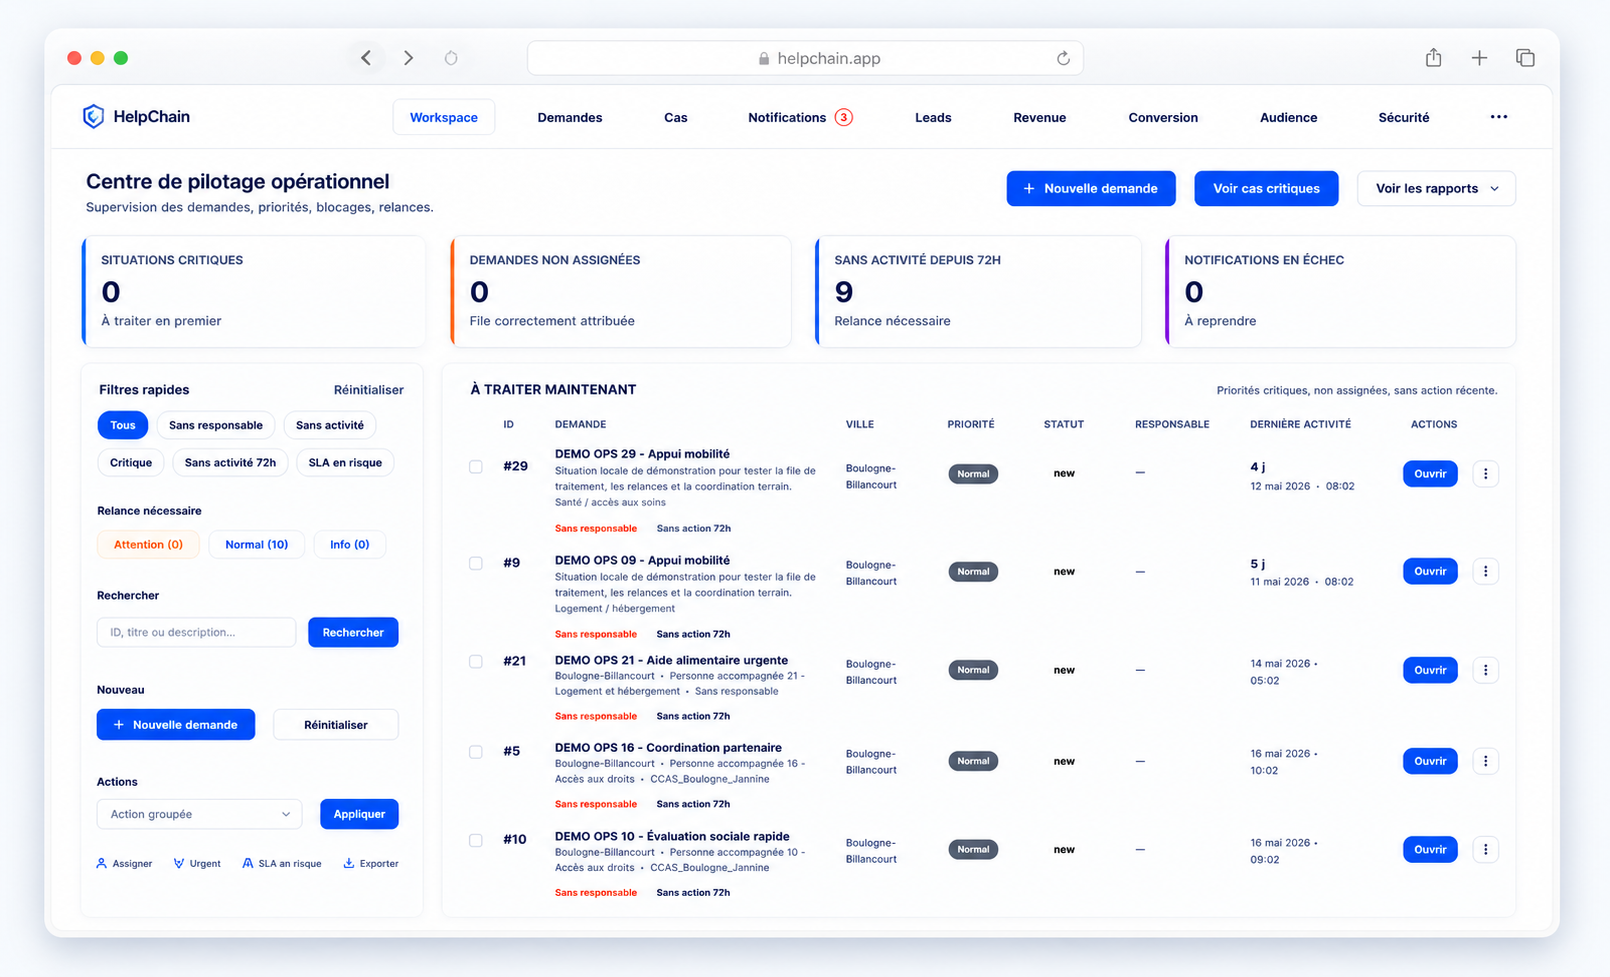
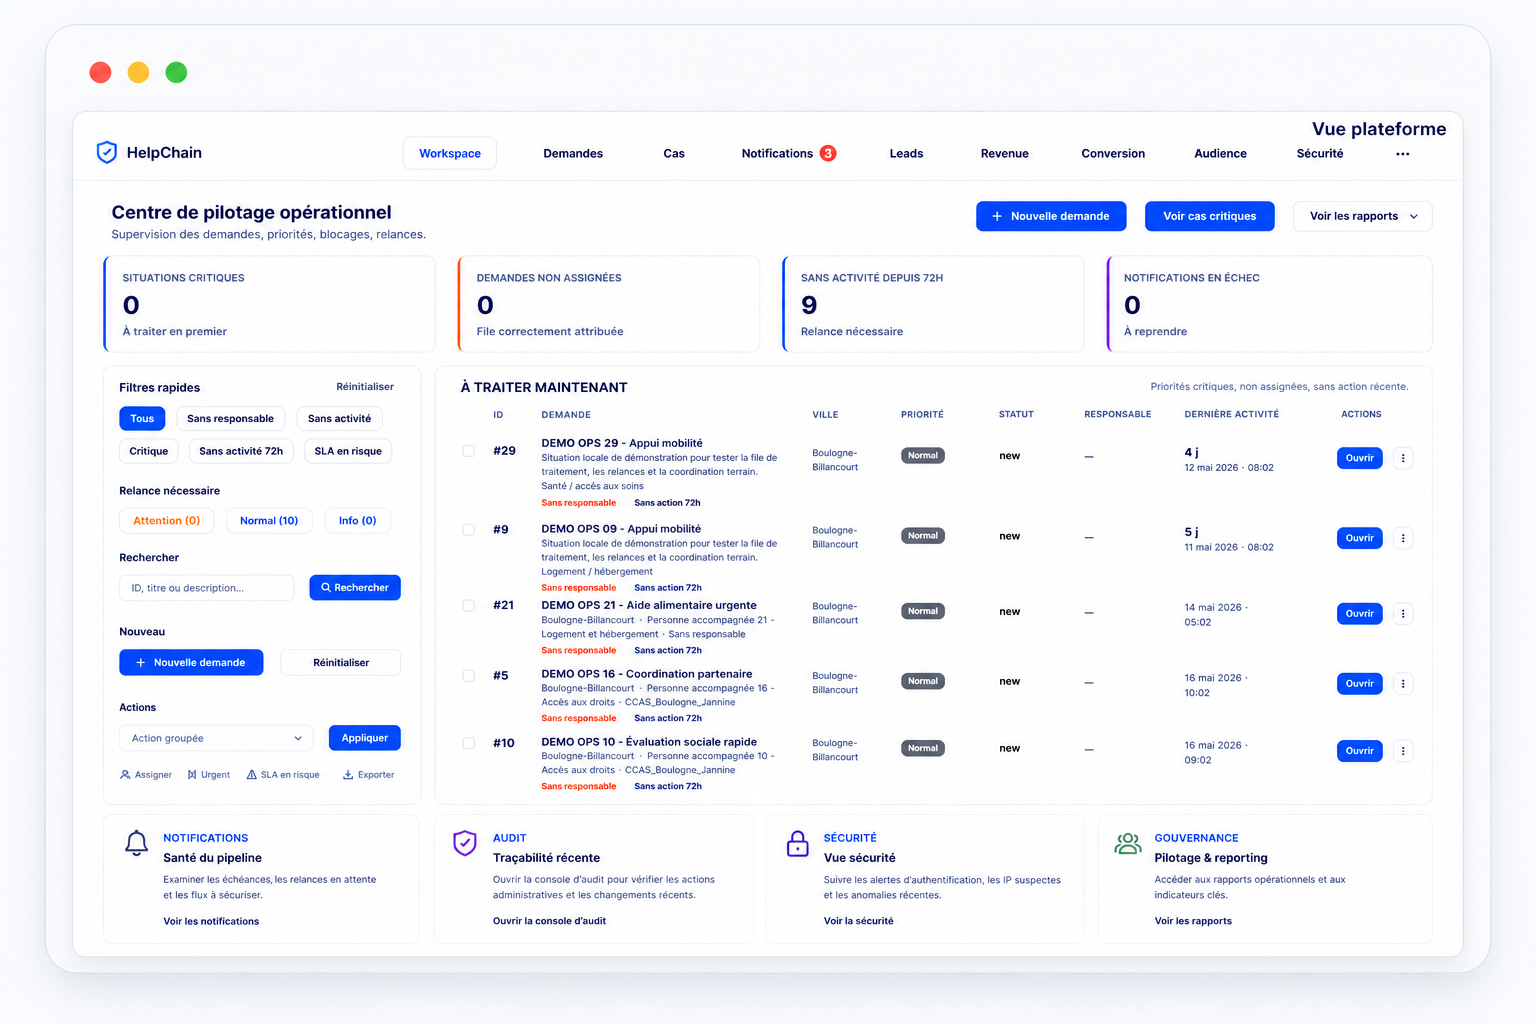
Refine homepage product narrative and visual section differentiation

diff --git a/templates/home_new_slim.html b/templates/home_new_slim.html
@@ -221,6 +221,235 @@
       line-height: 1.35;
     }
 
+    body.hc-page-home {
+      --hc-home-card-surface: linear-gradient(180deg, rgba(255, 255, 255, 0.94), rgba(246, 250, 255, 0.94));
+      --hc-home-card-border: rgba(120, 150, 180, 0.22);
+      --hc-home-card-border-strong: rgba(96, 126, 158, 0.3);
+      --hc-home-card-shadow:
+        0 18px 40px rgba(15, 23, 42, 0.05),
+        0 4px 14px rgba(37, 99, 235, 0.035);
+      --hc-home-card-shadow-hover:
+        0 24px 54px rgba(15, 23, 42, 0.07),
+        0 8px 18px rgba(37, 99, 235, 0.045);
+      --hc-home-card-text: #26425f;
+      --hc-home-card-text-strong: #14233d;
+      --hc-home-card-text-soft: #4f6783;
+    }
+
+    body.hc-page-home :is(
+      .hc-home-premium__trust-list li,
+      .hc-home-premium__preview-proofItem,
+      .hc-home-premium__workflow-points li,
+      .hc-home-premium__outcomes-card,
+      .hc-home-premium__outcomes-list li,
+      .hc-home-premium__buyer-card,
+      .hc-home-premium__objection-card,
+      .hc-home-premium__relay-card,
+      .hc-home-premium__relay-panel,
+      .hc-case-study__card,
+      .hc-trust-card
+    ) {
+      border: 1px solid var(--hc-home-card-border) !important;
+      background: var(--hc-home-card-surface) !important;
+      box-shadow: var(--hc-home-card-shadow) !important;
+      -webkit-font-smoothing: antialiased;
+      -moz-osx-font-smoothing: grayscale;
+      text-rendering: optimizeLegibility;
+      transition:
+        transform 180ms ease,
+        box-shadow 180ms ease,
+        border-color 180ms ease,
+        background-color 180ms ease;
+    }
+
+    body.hc-page-home :is(
+      .hc-home-premium__trust-list li,
+      .hc-home-premium__preview-proofItem,
+      .hc-home-premium__workflow-points li,
+      .hc-home-premium__outcomes-list li,
+      .hc-home-premium__buyer-card,
+      .hc-home-premium__objection-card,
+      .hc-home-premium__relay-panel,
+      .hc-case-study__card,
+      .hc-trust-card
+    ):hover {
+      transform: translateY(-3px);
+      border-color: var(--hc-home-card-border-strong) !important;
+      box-shadow: var(--hc-home-card-shadow-hover) !important;
+      background: linear-gradient(180deg, rgba(255, 255, 255, 0.97), rgba(248, 251, 255, 0.97)) !important;
+    }
+
+    body.hc-page-home :is(
+      .hc-home-premium__outcomes-card,
+      .hc-home-premium__relay-card
+    ):hover {
+      border-color: var(--hc-home-card-border-strong) !important;
+      box-shadow: var(--hc-home-card-shadow-hover) !important;
+      background: linear-gradient(180deg, rgba(255, 255, 255, 0.97), rgba(248, 251, 255, 0.97)) !important;
+    }
+
+    body.hc-page-home :is(
+      .hc-home-premium__outcomes-card,
+      .hc-home-premium__relay-card
+    ) {
+      border-radius: 28px !important;
+    }
+
+    body.hc-page-home :is(
+      .hc-home-premium__trust-list li,
+      .hc-home-premium__preview-proofItem,
+      .hc-home-premium__workflow-points li,
+      .hc-home-premium__outcomes-list li,
+      .hc-home-premium__buyer-card,
+      .hc-home-premium__objection-card,
+      .hc-home-premium__relay-panel,
+      .hc-case-study__card,
+      .hc-trust-card
+    ) {
+      border-radius: 22px !important;
+    }
+
+    body.hc-page-home :is(
+      .hc-home-premium__trust-list li,
+      .hc-home-premium__preview-proofItem,
+      .hc-home-premium__workflow-points li,
+      .hc-home-premium__outcomes-list li,
+      .hc-home-premium__buyer-card p,
+      .hc-home-premium__objection-card p,
+      .hc-home-premium__relay-card p,
+      .hc-home-premium__relay-panel li,
+      .hc-case-study__card p,
+      .hc-trust-card__text
+    ) {
+      color: var(--hc-home-card-text);
+      font-size: clamp(0.98rem, 0.14vw + 0.94rem, 1.04rem);
+      line-height: 1.62;
+      text-wrap: pretty;
+    }
+
+    body.hc-page-home :is(
+      .hc-home-premium__trust-list li,
+      .hc-home-premium__preview-proofText,
+      .hc-home-premium__workflow-note,
+      .hc-home-premium__outcomes-card,
+      .hc-home-premium__outcomes-list li,
+      .hc-home-premium__buyer-card h3,
+      .hc-home-premium__buyer-card p,
+      .hc-home-premium__objection-card h3,
+      .hc-home-premium__objection-card p,
+      .hc-home-premium__relay-card p,
+      .hc-home-premium__relay-panel h3,
+      .hc-home-premium__relay-panel li,
+      .hc-case-study__card h3,
+      .hc-case-study__card p,
+      .hc-trust-card__title
+      ,
+      .hc-trust-card__text
+    ) {
+      overflow-wrap: anywhere;
+      word-break: normal;
+      hyphens: auto;
+    }
+
+    body.hc-page-home :is(
+      .hc-home-premium__buyer-card h3,
+      .hc-home-premium__objection-card h3,
+      .hc-home-premium__relay-panel h3,
+      .hc-case-study__card h3,
+      .hc-trust-card__title
+    ) {
+      color: var(--hc-home-card-text-strong);
+      font-size: clamp(1.06rem, 0.2vw + 1rem, 1.16rem);
+      line-height: 1.36;
+      letter-spacing: -0.01em;
+      text-wrap: balance;
+    }
+
+    body.hc-page-home .hc-home-premium__preview-proofText {
+      color: var(--hc-home-card-text);
+      font-size: clamp(0.96rem, 0.12vw + 0.93rem, 1rem);
+      line-height: 1.5;
+    }
+
+    body.hc-page-home .hc-home-premium__preview-proofLabel {
+      color: #1d497f;
+      font-size: 0.78rem;
+      line-height: 1.32;
+    }
+
+    body.hc-page-home .hc-home-premium__workflow-note {
+      color: #1f4678;
+      font-size: clamp(0.95rem, 0.08vw + 0.93rem, 0.99rem);
+      line-height: 1.48;
+    }
+
+    body.hc-page-home :is(
+      .hc-home-premium__shot-card,
+      .hc-home-premium__shot-bar,
+      .hc-home-premium__shot-bar strong
+    ) {
+      -webkit-font-smoothing: antialiased;
+      -moz-osx-font-smoothing: grayscale;
+      text-rendering: optimizeLegibility;
+    }
+
+    body.hc-page-home .hc-home-premium__shot-bar strong {
+      color: #14233d;
+      font-size: clamp(1rem, 0.14vw + 0.97rem, 1.08rem);
+      line-height: 1.25;
+      letter-spacing: -0.01em;
+    }
+
+    body.hc-page-home .hc-home-premium__shot-img {
+      image-rendering: auto;
+      filter: contrast(1.02) brightness(1.01);
+    }
+
+    body.hc-page-home :is(
+      .hc-home-premium__buyer-card p,
+      .hc-home-premium__objection-card p,
+      .hc-home-premium__relay-card p,
+      .hc-home-premium__relay-panel li,
+      .hc-case-study__card p,
+      .hc-trust-card__text
+    ) {
+      color: var(--hc-home-card-text-soft);
+    }
+
+    @media (prefers-reduced-motion: reduce) {
+      body.hc-page-home :is(
+        .hc-home-premium__trust-list li,
+        .hc-home-premium__preview-proofItem,
+        .hc-home-premium__workflow-points li,
+        .hc-home-premium__outcomes-card,
+        .hc-home-premium__outcomes-list li,
+        .hc-home-premium__buyer-card,
+        .hc-home-premium__objection-card,
+        .hc-home-premium__relay-card,
+        .hc-home-premium__relay-panel,
+        .hc-case-study__card,
+        .hc-trust-card
+      ) {
+        transition: none !important;
+      }
+
+      body.hc-page-home :is(
+        .hc-home-premium__trust-list li,
+        .hc-home-premium__preview-proofItem,
+        .hc-home-premium__workflow-points li,
+        .hc-home-premium__outcomes-card,
+        .hc-home-premium__outcomes-list li,
+        .hc-home-premium__buyer-card,
+        .hc-home-premium__objection-card,
+        .hc-home-premium__relay-card,
+        .hc-home-premium__relay-panel,
+        .hc-case-study__card,
+        .hc-trust-card
+      ):hover {
+        transform: none !important;
+      }
+    }
+
     body.hc-page-home .hc-home-premium__section--cta .hc-home-premium__cta-card {
       grid-template-columns: minmax(0, 1.45fr) minmax(340px, 460px);
       gap: 34px;

diff --git a/static/css/pages/home-premium-conversion.css b/static/css/pages/home-premium-conversion.css
@@ -672,34 +672,54 @@ body.hc-page-home .hc-home-premium__shot-card--hero {
 }
 
 body.hc-page-home .hc-home-premium__shot-card--hero .hc-home-premium__shot-bar {
-  min-height: 46px !important;
-  padding: 12px 18px 11px 14px !important;
+  min-height: 56px !important;
+  padding: 13px 20px 12px !important;
 }
 
 body.hc-page-home .hc-home-premium__shot-card--hero .hc-home-premium__shot-bar span {
-  width: 9px !important;
-  height: 9px !important;
+  width: 11px !important;
+  height: 11px !important;
+}
+
+body.hc-page-home .hc-home-premium__shot-card--hero .hc-home-premium__shot-bar span:nth-child(1) {
+  background: #ff5f57 !important;
+  box-shadow: inset 0 0 0 1px rgba(0, 0, 0, 0.06);
+}
+
+body.hc-page-home .hc-home-premium__shot-card--hero .hc-home-premium__shot-bar span:nth-child(2) {
+  background: #febc2e !important;
+  box-shadow: inset 0 0 0 1px rgba(0, 0, 0, 0.06);
+}
+
+body.hc-page-home .hc-home-premium__shot-card--hero .hc-home-premium__shot-bar span:nth-child(3) {
+  background: #28c840 !important;
+  box-shadow: inset 0 0 0 1px rgba(0, 0, 0, 0.06);
 }
 
 body.hc-page-home .hc-home-premium__shot-img--hero {
   display: block;
-  width: 100%;
+  width: 101%;
+  max-width: none;
   height: auto;
-  margin-top: -18px;
-  margin-bottom: -18px;
+  margin: 0 -0.5%;
   object-fit: contain;
-  object-position: top center;
+  object-position: center top;
+  padding: 12px 24px 22px;
+  background: linear-gradient(180deg, rgba(255, 255, 255, 0.98), rgba(244, 248, 252, 0.98));
+  box-sizing: border-box;
   transform: none;
 }
 
 body.hc-page-home .hc-home-premium__shot-img--module-demandes {
   display: block;
-  width: 104%;
-  max-width: none;
+  width: 100%;
+  max-width: 100%;
   height: auto;
-  margin: -10px -2% -18px;
-  object-fit: cover;
-  object-position: top center;
+  margin: 0;
+  object-fit: contain;
+  object-position: center top;
+  padding: 10px 18px 16px;
+  box-sizing: border-box;
   transform: none;
   filter: none;
 }
@@ -723,6 +743,7 @@ body.hc-page-home .hc-home-premium__product-visual .hc-home-premium__shot-card {
     0 8px 24px rgba(37, 99, 235, 0.05) !important;
   overflow: hidden !important;
   transform: none !important;
+  isolation: isolate;
 }
 
 body.hc-page-home .hc-home-premium__product-visual .hc-home-premium__shot-bar {
@@ -739,17 +760,29 @@ body.hc-page-home .hc-home-premium__product-visual .hc-home-premium__shot-bar sp
 
 body.hc-page-home .hc-home-premium__product-visual .hc-home-premium__shot-bar strong {
   color: #14233d !important;
-  font-size: 1rem !important;
+  font-size: clamp(1rem, 0.18vw + 0.96rem, 1.08rem) !important;
   font-weight: 750 !important;
   letter-spacing: -0.01em !important;
+  line-height: 1.24 !important;
+  -webkit-font-smoothing: antialiased;
+  -moz-osx-font-smoothing: grayscale;
+  text-rendering: optimizeLegibility;
 }
 
 body.hc-page-home .hc-home-premium__product-visual .hc-home-premium__shot-img {
   display: block;
+  width: 100%;
   height: auto;
   object-position: top center;
-  filter: none !important;
+  image-rendering: auto;
+  filter: contrast(1.035) brightness(0.998) saturate(1.012) !important;
   transform: none !important;
+}
+
+body.hc-page-home .hc-home-premium__shot-img--module-demandes,
+body.hc-page-home .hc-home-premium__shot-img--module-securite,
+body.hc-page-home .hc-home-premium__shot-card--interstructure .hc-home-premium__shot-img {
+  filter: contrast(1.045) brightness(0.996) saturate(1.014) !important;
 }
 
 @media (max-width: 991.98px) {
@@ -772,6 +805,25 @@ body.hc-page-home .hc-home-premium__product-visual .hc-home-premium__shot-img {
   body.hc-page-home .hc-home-premium__shot-card--hero {
     height: auto !important;
     max-height: none;
+  }
+
+  body.hc-page-home .hc-home-premium__shot-img--hero {
+    width: 100%;
+    margin: 0;
+    padding: 12px 18px 20px;
+  }
+
+  body.hc-page-home .hc-home-premium__shot-img--module-demandes {
+    width: 100%;
+    max-width: 100%;
+    margin: 0;
+    object-position: center top;
+    padding: 8px 14px 14px;
+  }
+
+  body.hc-page-home .hc-home-premium__product-visual .hc-home-premium__shot-bar {
+    min-height: 54px !important;
+    padding: 12px 18px 11px !important;
   }
 }
 
@@ -807,5 +859,29 @@ body.hc-page-home .hc-home-premium__product-visual .hc-home-premium__shot-img {
   body.hc-page-home .hc-home-premium__shot-card--hero {
     height: auto !important;
     border-radius: 22px;
+  }
+
+  body.hc-page-home .hc-home-premium__shot-img--hero {
+    width: 100%;
+    max-width: 100%;
+    margin: 0;
+    padding: 10px 14px 16px;
+  }
+
+  body.hc-page-home .hc-home-premium__shot-img--module-demandes {
+    width: 100%;
+    max-width: 100%;
+    margin: 0;
+    object-position: center top;
+    padding: 8px 10px 12px;
+  }
+
+  body.hc-page-home .hc-home-premium__product-visual .hc-home-premium__shot-bar {
+    min-height: 50px !important;
+    padding: 10px 14px !important;
+  }
+
+  body.hc-page-home .hc-home-premium__product-visual .hc-home-premium__shot-bar strong {
+    font-size: 0.96rem !important;
   }
 }
